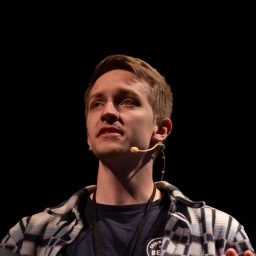
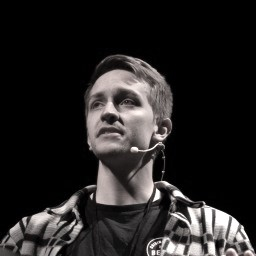
update: Make images grayscale

Changed region(s): [[0.3125, 0.1875, 1.0, 1.0], [0.0, 0.75, 0.3438, 1.0]]

diff --git a/components/ProfilePhoto.tsx b/components/ProfilePhoto.tsx
@@ -25,7 +25,7 @@ export default function ProfilePhoto({ src, size }: ProfilePhotoProps) {
   return (
     <div
       className={cn(
-        "h-32 sm:h-full transition-opacity duration-300 grayscale aspect-square",
+        "h-32 sm:h-full transition-opacity duration-300 aspect-square",
         isLoaded ? "opacity-100" : "opacity-0"
       )}
     >
